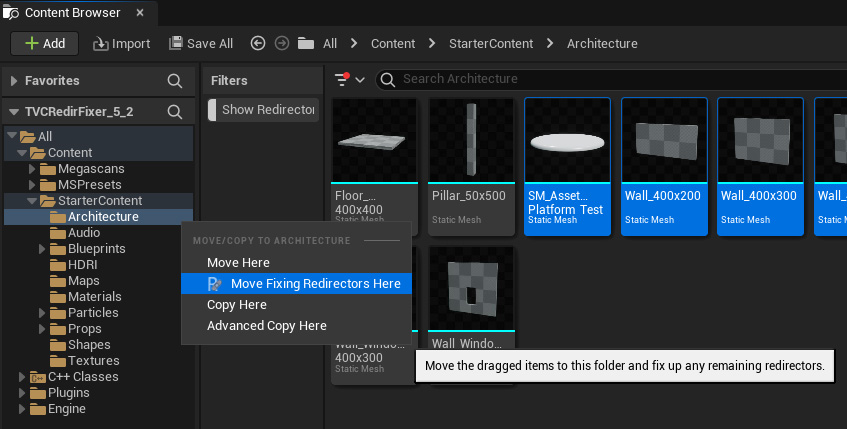
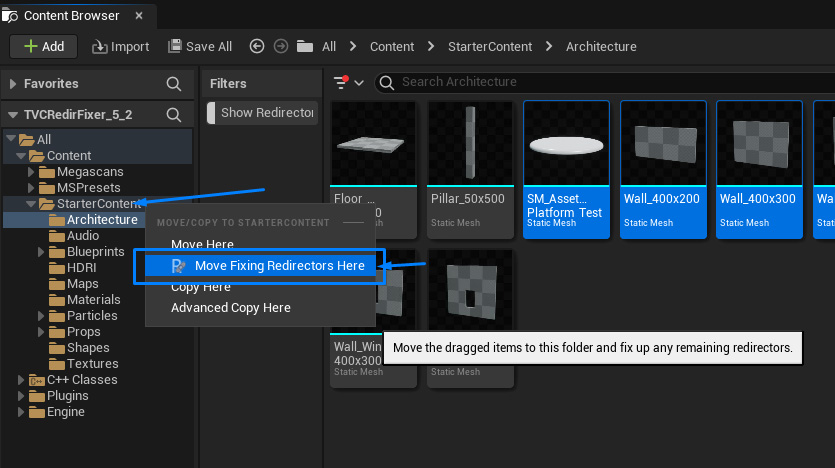
update redirectors plugin added 1 picture updated 1 picture

diff --git a/pages/redirectors-fixer-plugin.md b/pages/redirectors-fixer-plugin.md
@@ -46,4 +46,6 @@ Success! Now you can select any asset or folder in Content Browser and click on 
 ## Basic Usage
 
 In essence, what this plugin does, is adding another contextual menu entry in Unreal Engine Content Browser, next to "Rename" and "Move Here" entries, which are actions able to cause redirectors creation, with extended functionality of fixing created redirectors right after the move or rename action has finished.
+
 <img class="img" src="https://tvillalbac.github.io/blog/assets/img/pages/RedirectorsFixerGuide/rename-asset-fixing-redirectors-plugin-contextual-menu.jpg" alt="Rename asset contextual menu of TVC Redirectors Fixer plugin in Unreal Engine 5">
+<img class="img" src="https://tvillalbac.github.io/blog/assets/img/pages/RedirectorsFixerGuide/move-here-fixing-redirectors-plugin-contextual-menu.jpg" alt="Move here assets contextual menu of TVC Redirectors Fixer plugin in Unreal Engine 5">
